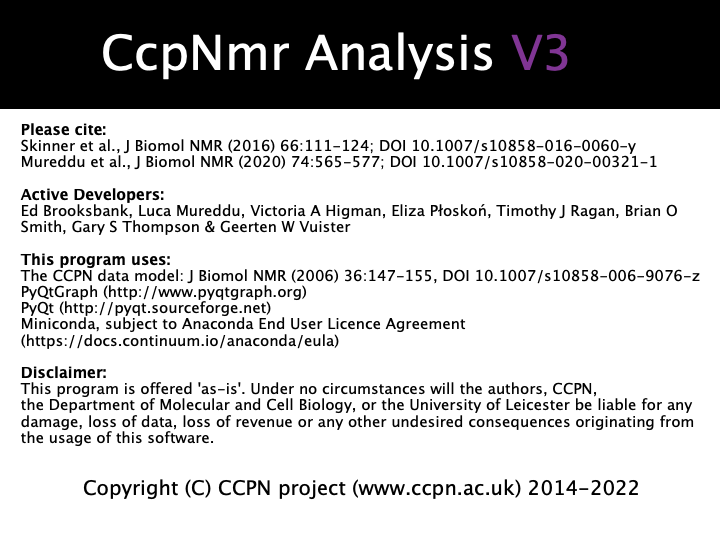
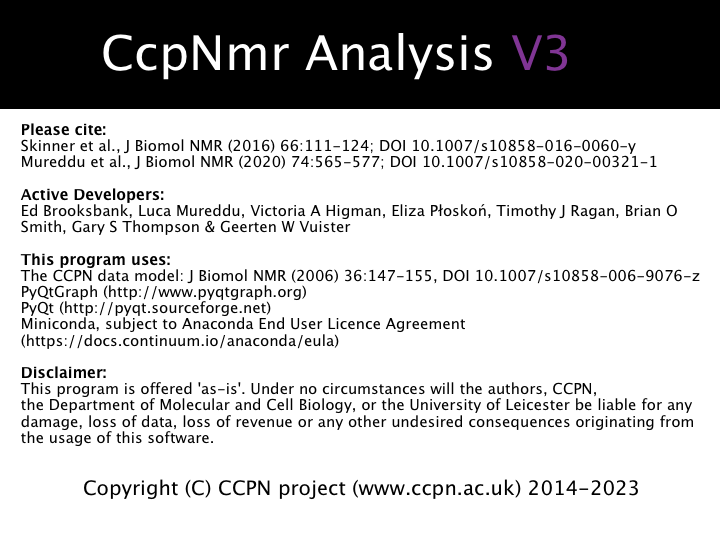
updated year

diff --git a/src/python/ccpn/ui/gui/popups/AboutPopup.py b/src/python/ccpn/ui/gui/popups/AboutPopup.py
@@ -4,19 +4,19 @@ Module Documentation here
 #=========================================================================================
 # Licence, Reference and Credits
 #=========================================================================================
-__copyright__ = "Copyright (C) CCPN project (http://www.ccpn.ac.uk) 2014 - 2021"
+__copyright__ = "Copyright (C) CCPN project (https://www.ccpn.ac.uk) 2014 - 2023"
 __credits__ = ("Ed Brooksbank, Joanna Fox, Victoria A Higman, Luca Mureddu, Eliza Płoskoń",
                "Timothy J Ragan, Brian O Smith, Gary S Thompson & Geerten W Vuister")
-__licence__ = ("CCPN licence. See http://www.ccpn.ac.uk/v3-software/downloads/license")
+__licence__ = ("CCPN licence. See https://ccpn.ac.uk/software/licensing/")
 __reference__ = ("Skinner, S.P., Fogh, R.H., Boucher, W., Ragan, T.J., Mureddu, L.G., & Vuister, G.W.",
                  "CcpNmr AnalysisAssign: a flexible platform for integrated NMR analysis",
-                 "J.Biomol.Nmr (2016), 66, 111-124, http://doi.org/10.1007/s10858-016-0060-y")
+                 "J.Biomol.Nmr (2016), 66, 111-124, https://doi.org/10.1007/s10858-016-0060-y")
 #=========================================================================================
 # Last code modification
 #=========================================================================================
 __modifiedBy__ = "$modifiedBy: Ed Brooksbank $"
-__dateModified__ = "$dateModified: 2021-07-22 13:40:13 +0100 (Thu, July 22, 2021) $"
-__version__ = "$Revision: 3.0.4 $"
+__dateModified__ = "$dateModified: 2023-01-06 15:36:55 +0000 (Fri, January 06, 2023) $"
+__version__ = "$Revision: 3.1.1 $"
 #=========================================================================================
 # Created
 #=========================================================================================
@@ -27,18 +27,20 @@ __date__ = "$Date: 2017-03-30 11:28:58 +0100 (Thu, March 30, 2017) $"
 #=========================================================================================
 
 import os
-from ccpn.util import Path
-from PyQt5 import QtGui, QtWidgets, QtCore
+import datetime
+from PyQt5 import QtGui
 from ccpn.ui.gui.widgets.Label import Label
 from ccpn.ui.gui.widgets.ButtonList import ButtonList
+from ccpn.ui.gui.popups.Dialog import CcpnDialog
+from ccpn.util import Path
 
-from ccpn.ui.gui.widgets.Base import Base             # ejb
-from ccpn.ui.gui.popups.Dialog import CcpnDialog      # ejb
 
 # This text is being copied on the clipboard only. Is not the source of the image in the popup.
 # The image is in ccpn.ui.gui.widgets
+year = datetime.date.today().year
 
-TEXT = ''' Copyright (C) CCPN project (www.ccpn.ac.uk) 2014 - 2021
+
+TEXT = ''' Copyright (C) CCPN project (www.ccpn.ac.uk) 2014 - %s
 | 
             **Active Developers:**
             Ed Brooksbank, Joanna Fox, Victoria A Higman, Luca Mureddu, Eliza Płoskoń,
@@ -47,48 +49,54 @@ TEXT = ''' Copyright (C) CCPN project (www.ccpn.ac.uk) 2014 - 2021
 
             **This program uses:**
             The CCPN data model: J Biomol NMR (2006) 36:147–155, DOI 10.1007/s10858-006-9076-z 
-            PyQtGraph (http://www.pyqtgraph.org)
-            PyQt (http://pyqt.sourceforge.net)
+            PyQtGraph (https://www.pyqtgraph.org)
+            PyQt (https://pyqt.sourceforge.net)
             Miniconda, subject to Anaconda End User Licence Agreement (https://docs.continuum.io/anaconda/eula)
 
             **Disclaimer:**
             This program is offered 'as-is'. Under no circumstances will the authors, CCPN, the Department of Molecular 
             and Cell Biology, or the University of Leicester be liable for any damage, loss of data, loss of revenue or 
             any other undesired consequences originating from the usage of this software.
-        '''
+        ''' % year
 
 
 class AboutPopup(CcpnDialog):
-  def __init__(self, parent=None, title='About CcpNmr', **kwds):
-    CcpnDialog.__init__(self, parent, setLayout=True, windowTitle=title, **kwds)
+    def __init__(self, parent=None, title='About CcpNmr', **kwds):
+        CcpnDialog.__init__(self, parent, setLayout=True, windowTitle=title, **kwds)
 
-    pathPNG = os.path.join(Path.getPathToImport('ccpn.ui.gui.widgets'), 'AboutCcpNmr.png')
-    self.label = Label(self, grid=(0, 0))
-    self.label.setPixmap(QtGui.QPixmap(pathPNG))
+        pathPNG = os.path.join(Path.getPathToImport('ccpn.ui.gui.widgets'), 'AboutCcpNmr.png')
+        self.label = Label(self, grid=(0, 0))
+        self.label.setPixmap(QtGui.QPixmap(pathPNG))
 
-    self.buttons = ButtonList(self, texts=['Close', 'Copy'],
-                                      callbacks=[self.accept, self._copyToClipboard],
-                                      tipTexts=['Close window', 'Copy text to clipboard'],
-                                      grid=(1, 0), hAlign='r')
+        self.buttons = ButtonList(self, texts=['Close', 'Copy'],
+                                  callbacks=[self.accept, self._copyToClipboard],
+                                  tipTexts=['Close window', 'Copy text to clipboard'],
+                                  grid=(1, 0), hAlign='r')
 
-    self.setMaximumWidth(self.size().width())
-    self.setMaximumSize(self.maximumWidth(), self.maximumHeight())
-    # CcpnDialog.fixedSize(self)
+        self.setMaximumWidth(self.size().width())
+        self.setMaximumSize(self.maximumWidth(), self.maximumHeight())
+        # CcpnDialog.fixedSize(self)
 
-  def _copyToClipboard(self):
-    """TEXT being copied on the clipboard """
-    from ccpn.util.Common import copyToClipboard
-    copyToClipboard([TEXT])
+    @staticmethod
+    def _copyToClipboard():
+        """TEXT being copied on the clipboard """
+        from ccpn.util.Common import copyToClipboard
+
+        copyToClipboard([TEXT])
+
+
+def main():
+    from ccpn.ui.gui.widgets.Application import TestApplication
+
+
+    app = TestApplication()
+    popup = AboutPopup()
+
+    popup.show()
+    popup.raise_()
+
+    app.start()
+
 
 if __name__ == '__main__':
-  from ccpn.ui.gui.widgets.Application import TestApplication
-  from ccpn.ui.gui.popups.Dialog import CcpnDialog
-
-  app = TestApplication()
-  popup = AboutPopup()
-
-  popup.show()
-  popup.raise_()
-
-  app.start()
-
+    main()

diff --git a/src/python/ccpn/framework/credits.py b/src/python/ccpn/framework/credits.py
@@ -1,13 +1,10 @@
 """
 This module defines the code for creating the credits
 """
-
-
-import contextlib
 #=========================================================================================
 # Licence, Reference and Credits
 #=========================================================================================
-__copyright__ = "Copyright (C) CCPN project (https://www.ccpn.ac.uk) 2014 - 2022"
+__copyright__ = "Copyright (C) CCPN project (https://www.ccpn.ac.uk) 2014 - 2023"
 __credits__ = ("Ed Brooksbank, Joanna Fox, Victoria A Higman, Luca Mureddu, Eliza Płoskoń",
                "Timothy J Ragan, Brian O Smith, Gary S Thompson & Geerten W Vuister")
 __licence__ = ("CCPN licence. See http://www.ccpn.ac.uk/v3-software/downloads/license",
@@ -20,8 +17,8 @@ __reference__ = ("Skinner, S.P., Fogh, R.H., Boucher, W., Ragan, T.J., Mureddu, 
 # Last code modification
 #=========================================================================================
 __modifiedBy__ = "$modifiedBy: Ed Brooksbank $"
-__dateModified__ = "$dateModified: 2022-12-21 12:16:43 +0000 (Wed, December 21, 2022) $"
-__version__ = "$Revision: 3.1.0 $"
+__dateModified__ = "$dateModified: 2023-01-06 15:36:55 +0000 (Fri, January 06, 2023) $"
+__version__ = "$Revision: 3.1.1 $"
 #=========================================================================================
 # Created
 #=========================================================================================
@@ -31,12 +28,14 @@ __date__ = "$Date: 2017-04-07 10:28:41 +0000 (Fri, April 07, 2017) $"
 # Start of code
 #=========================================================================================
 
+import contextlib
+
+
 authors = ('Ed Brooksbank', 'Joanna Fox', 'Victoria A Higman', 'Luca Mureddu', 'Eliza Płoskoń',
            'Timothy J Ragan', 'Brian O Smith', 'Gary S Thompson', 'Geerten W Vuister')
 
 
-def _strList(inlist: list, maxlen: int = 80) -> list:
-
+def _strList(inlist: tuple, maxlen: int = 80) -> list:
     outstr = ''
     # skip = False  # print commas and ampersand
     lencount = maxlen
@@ -48,21 +47,17 @@ def _strList(inlist: list, maxlen: int = 80) -> list:
     for cName in nameList[:-1]:
         skip = False
         if len(outstr + cName) > lencount and cName not in nameList[-2:]:
-            outstr += cName + ', '
+            outstr += f'{cName}, '
             outList.append(outstr)
             lencount += maxlen
             skip = True
             outstr = ''
         elif cName not in nameList[-2:]:
-            outstr += cName + ', '
+            outstr += f'{cName}, '
         else:
             outstr += cName
 
-    if len(nameList) == 1:
-        outstr = nameList[0]
-    else:
-        outstr = outstr + ' & ' + nameList[-1]
-
+    outstr = nameList[0] if len(nameList) == 1 else f'{outstr} & {nameList[-1]}'
     if outstr:
         outList.append(outstr)
 
@@ -91,13 +86,16 @@ def printCreditsText(fp, programName, version):
             authorList = _strList(authors, maxlen=60)
             lines.append(f"{prefix}{authorList[0]}")
             lines.extend(f"{' ' * len(prefix)}{crLine}" for crLine in authorList[1:])
+
     lines.append("")
+
     with contextlib.suppress(Exception):
         if isinstance(__reference__, str):
             lines.append(f"Please cite:  {__reference__}")
         elif isinstance(__reference__, tuple):
             lines.append(f"Please cite:  {__reference__[0]}")
             lines.extend(f"              {refLine}" for refLine in __reference__[1:])
+
     lines.extend(("",
                   "DISCLAIMER:   This program is offered 'as-is'. Under no circumstances will the authors, CCPN,",
                   "              the Department of Molecular and Cell Biology, or the University of Leicester be",
